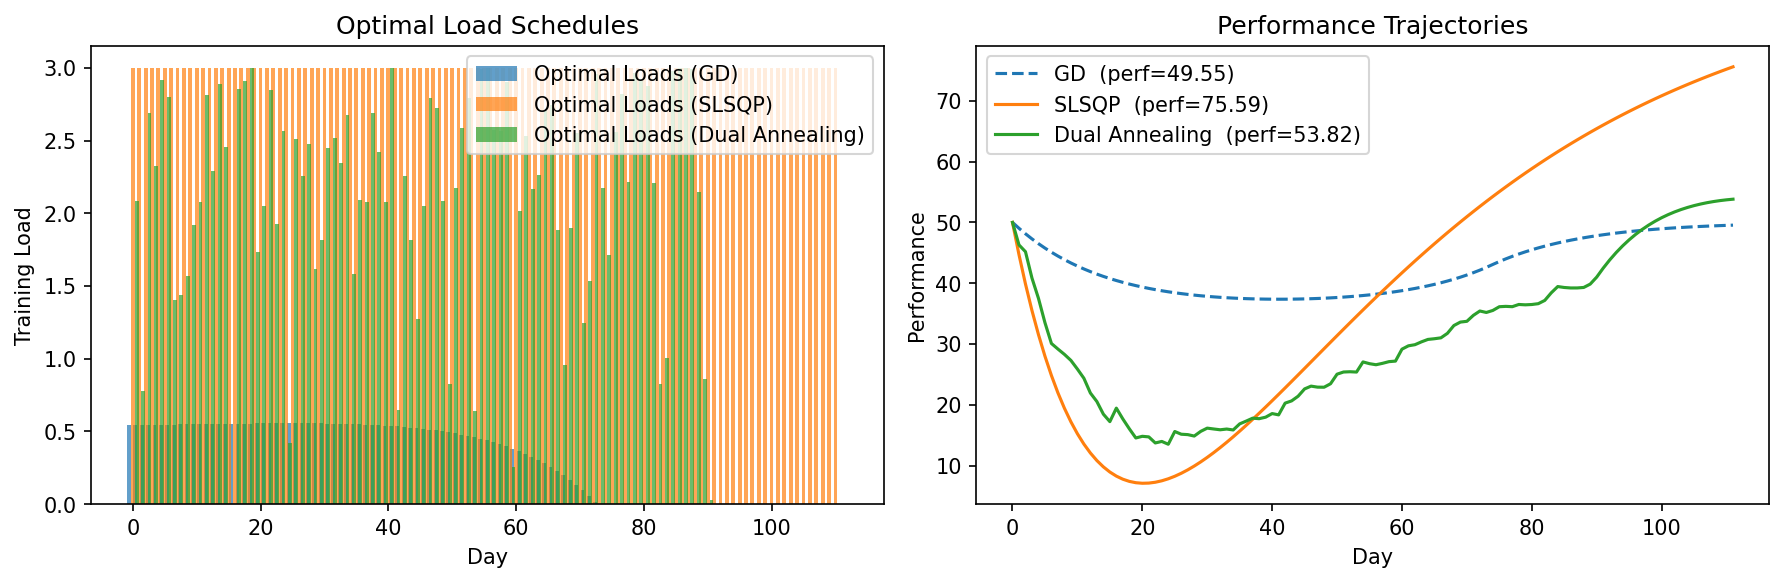
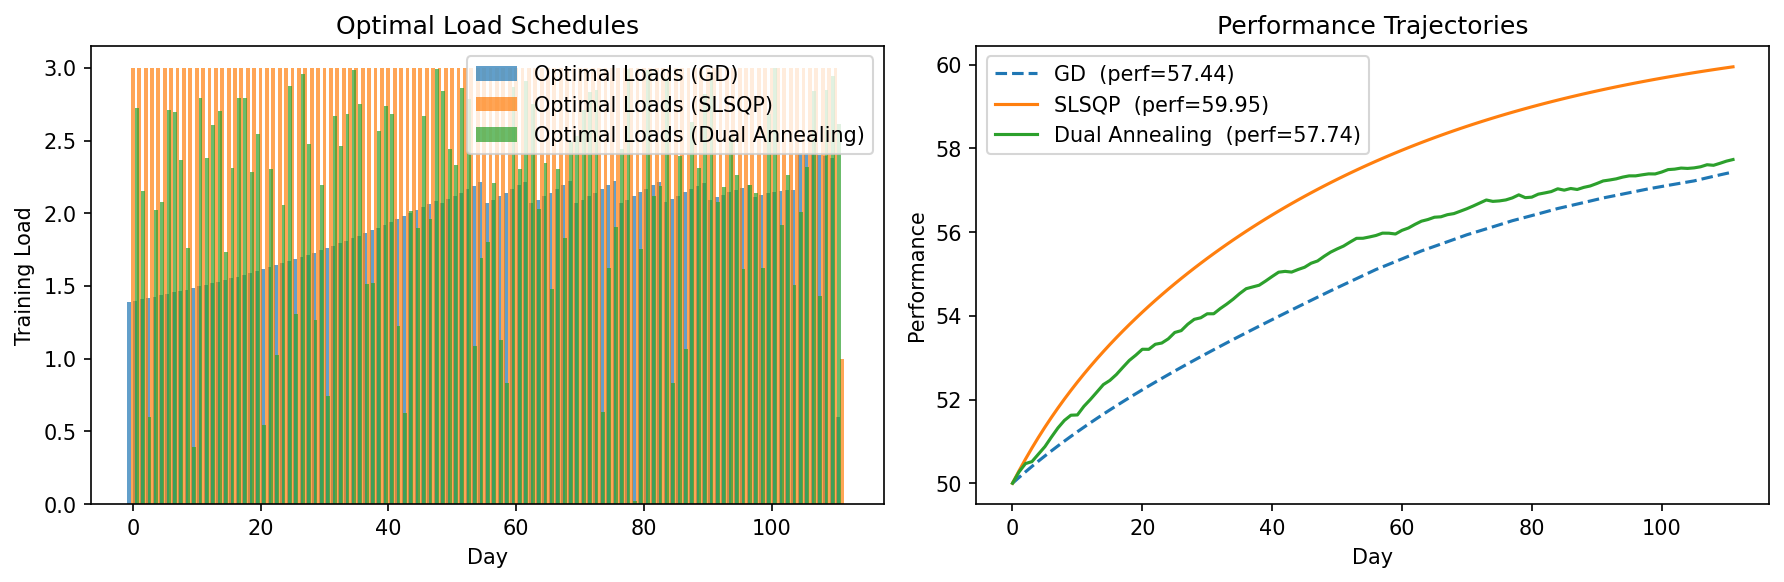
adjust k1 10-fold and k3 100-fold
(because in Busso input units of TRIMP are 10 times larger than our input units of km)

diff --git a/fiona/simulated_annealing.py b/fiona/simulated_annealing.py
@@ -21,8 +21,8 @@ import math, random
 @dataclass
 class BussoParams:
     p0:   float = 0    # baseline performance (AU) -> AU: arbitrary units
-    k1:   float = 0.031     # fitness gain factor (fixed, the magnitude of fitness gained by a unit of training) TODO: re-check number - depends on the athlete
-    k3:   float = 0.000035  # fatigue sensitivity multiplier (drives dynamic k2: the magnitude of fatigue incurred by a unit of training) TODO: re-check number - depends on the athlete
+    k1:   float = 0.31     # fitness gain factor (fixed, the magnitude of fitness gained by a unit of training) TODO: re-check number - depends on the athlete
+    k3:   float = 0.0035  # fatigue sensitivity multiplier (drives dynamic k2: the magnitude of fatigue incurred by a unit of training) TODO: re-check number - depends on the athlete
     tau1: float = 30.8    # fitness decay constant (days)
     tau2: float = 16.8    # fatigue decay constant (days)
     tau3: float = 2.3    # fatigue sensitivity decay constant (days)
@@ -327,7 +327,7 @@ def plot_performance_dynamics(loads, perf, g, h, k2, INSPECT):
     ax2.grid(alpha=0.3)
 
     plt.tight_layout()
-    plt.savefig(os.path.join(script_dir, f"simulated_annealing_performance_{INSPECT}.png"), dpi=150, bbox_inches='tight')
+    plt.savefig(os.path.join(script_dir, f"simulated_annealing_performance.png"), dpi=150, bbox_inches='tight')
     # plt.show()
 
 
@@ -353,7 +353,7 @@ def plot_weekly_volume(loads, INSPECT):
                  arrowprops=dict(facecolor='black', shrink=0.05), ha='center')
 
     plt.tight_layout()
-    plt.savefig(os.path.join(script_dir, f"simulated_annealing_weekly_volume_{INSPECT}v3.png"), dpi=150, bbox_inches='tight')
+    plt.savefig(os.path.join(script_dir, f"simulated_annealing_weekly_volume.png"), dpi=150, bbox_inches='tight')
     # plt.show()
 
 def print_weekly_summary(loads):
@@ -397,7 +397,7 @@ def plot_convergence(history: List[float], INSPECT: str):
     ax.grid(alpha=0.3)
     ax.legend()
     plt.tight_layout()
-    plt.savefig(os.path.join(script_dir, f"simulated_annealing_convergence_{INSPECT}v3.png"), dpi=150, bbox_inches='tight')
+    plt.savefig(os.path.join(script_dir, f"simulated_annealing_convergence.png"), dpi=150, bbox_inches='tight')
 
 def print_and_show_plots():
     plt.show()
